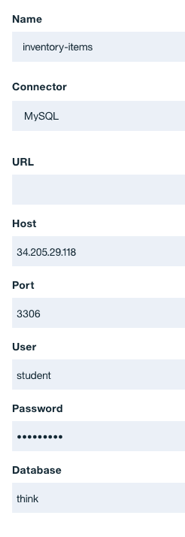
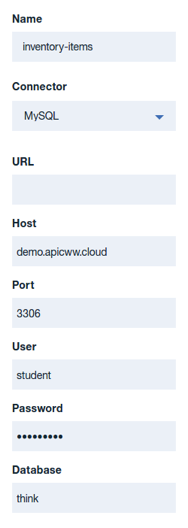
update db config

diff --git a/docs/pages/labs/lab1/lab1_items_db.md b/docs/pages/labs/lab1/lab1_items_db.md
@@ -32,7 +32,7 @@ applies_to: [developer]
 
     > URL: _leave blank_
     > 
-    > Host: `34.205.29.118`
+    > Host: `demo.apicww.cloud`
     > 
     > Port: `3306`
     > 
